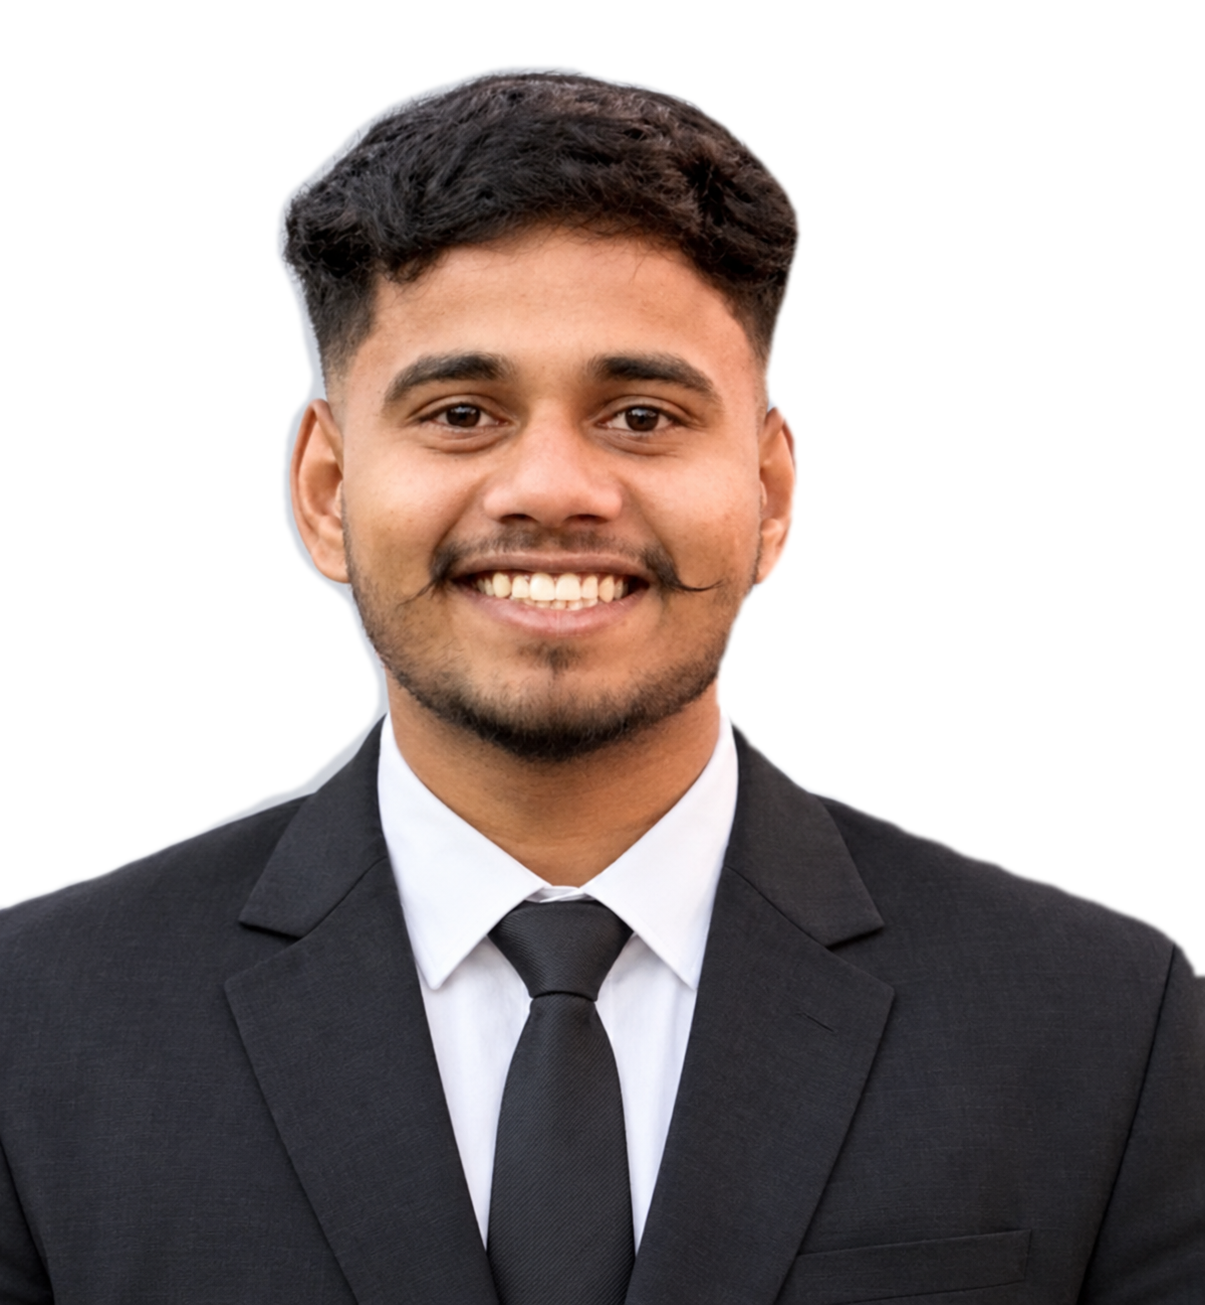
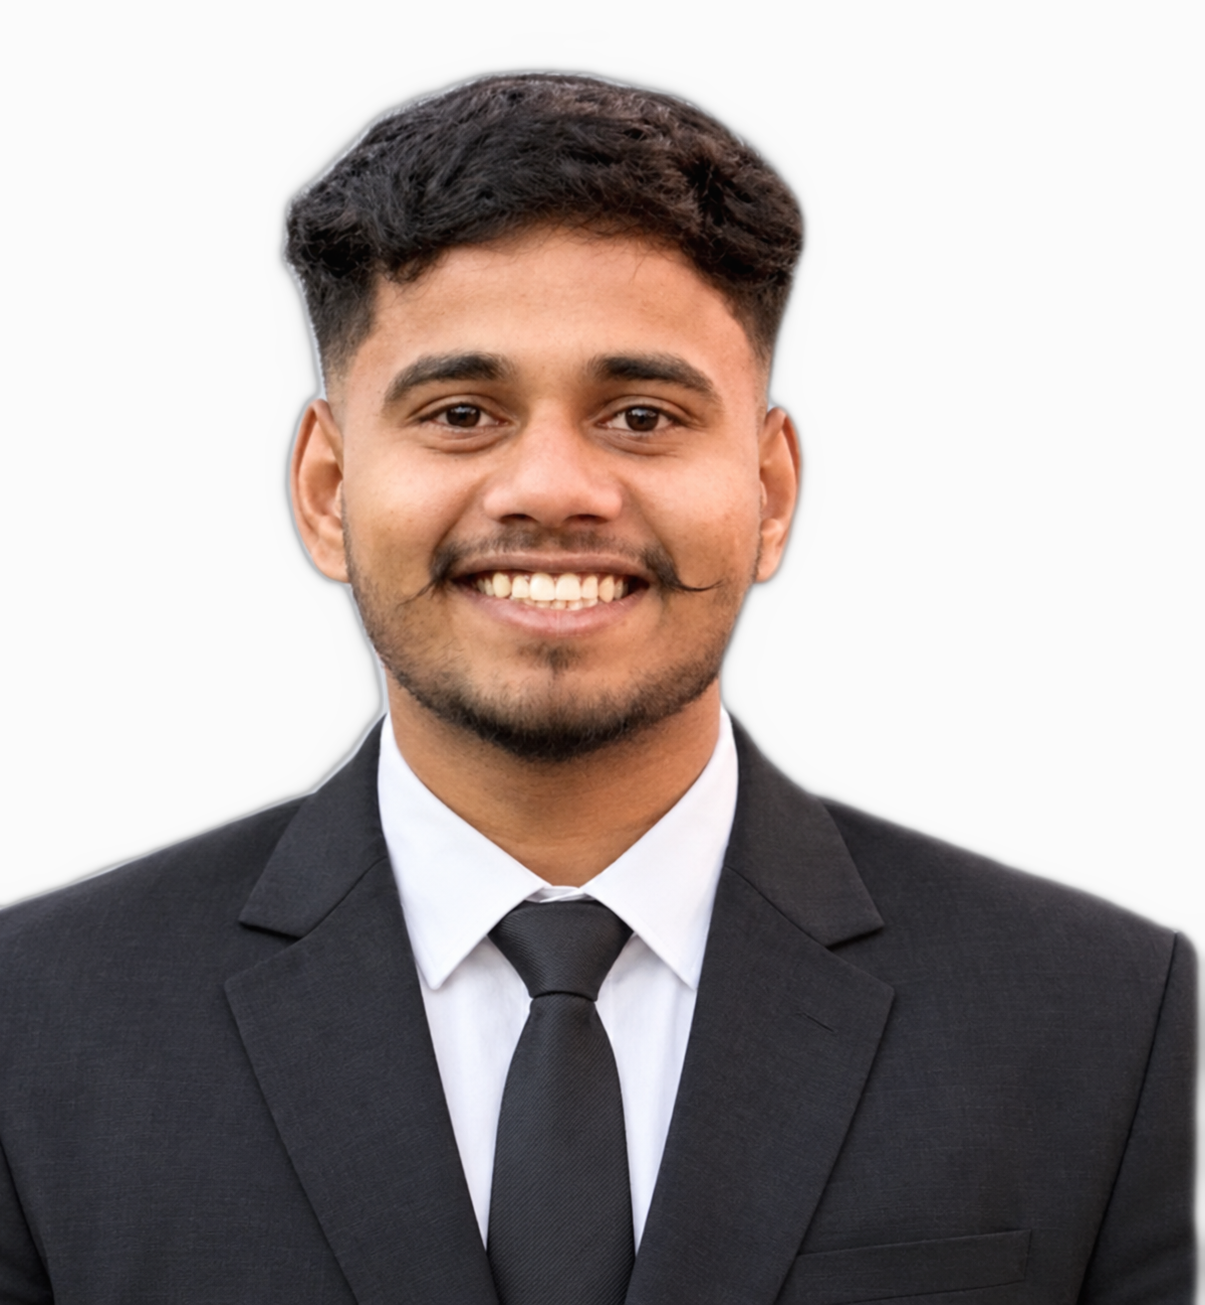
feat: apply smooth edge feathering, bilateral filtering, defringing, and soft vignette blending to leadership photos

diff --git a/src/styles.css b/src/styles.css
@@ -317,6 +317,15 @@ html {
   border-radius: 6px;
 }
 
+.image-placeholder-portrait::after {
+  content: "";
+  position: absolute;
+  inset: 0;
+  pointer-events: none;
+  border-radius: inherit;
+  box-shadow: inset 0 0 16px rgba(4, 4, 7, 0.55), inset 0 -35px 25px rgba(6, 6, 9, 0.85);
+}
+
 .image-placeholder-avatar {
   width: 58px;
   height: 58px;
@@ -326,6 +335,15 @@ html {
   max-height: 58px;
   border-radius: 6px;
   flex-shrink: 0;
+}
+
+.image-placeholder-avatar::after {
+  content: "";
+  position: absolute;
+  inset: 0;
+  pointer-events: none;
+  border-radius: inherit;
+  box-shadow: inset 0 0 6px rgba(4, 4, 7, 0.45);
 }
 
 .image-placeholder-icon {

diff --git a/scripts/process_team_images.py b/scripts/process_team_images.py
@@ -2,16 +2,28 @@ import os
 import sys
 import torch
 import numpy as np
-from PIL import Image, ImageFilter, ImageOps
+import cv2
+from PIL import Image, ImageFilter
 from torchvision import transforms
-from torchvision.models.segmentation import deeplabv3_mobilenet_v3_large, DeepLabV3_MobileNet_V3_Large_Weights
+from torchvision.models.segmentation import (
+    deeplabv3_resnet50,
+    DeepLabV3_ResNet50_Weights,
+    deeplabv3_mobilenet_v3_large,
+    DeepLabV3_MobileNet_V3_Large_Weights
+)
 
-print("Initializing Torchvision DeepLabV3 Person Segmentation...")
+print("Loading high-precision DeepLabV3 segmentation model...")
 device = torch.device("cuda" if torch.cuda.is_available() else "cpu")
-print(f"Using device: {device}")
+print(f"Device: {device}")
 
-weights = DeepLabV3_MobileNet_V3_Large_Weights.DEFAULT
-model = deeplabv3_mobilenet_v3_large(weights=weights).to(device)
+try:
+    weights = DeepLabV3_ResNet50_Weights.DEFAULT
+    model = deeplabv3_resnet50(weights=weights).to(device)
+except Exception as e:
+    print(f"Falling back to MobileNetV3: {e}")
+    weights = DeepLabV3_MobileNet_V3_Large_Weights.DEFAULT
+    model = deeplabv3_mobilenet_v3_large(weights=weights).to(device)
+
 model.eval()
 
 preprocess = transforms.Compose([
@@ -19,78 +31,145 @@ preprocess = transforms.Compose([
     transforms.Normalize(mean=[0.485, 0.456, 0.406], std=[0.229, 0.224, 0.225]),
 ])
 
-def remove_background(img: Image.Image) -> Image.Image:
-    """Extracts the human subject with clean feathered alpha."""
-    rgb_img = img.convert("RGB")
+def refine_alpha_edges(rgb_np, raw_prob_mask):
+    """
+    Refines raw probability mask into a smooth, anti-aliased feathered alpha mask.
+    Removes harsh steps, softens border transitions, and eliminates halos.
+    """
+    h, w = rgb_np.shape[:2]
+    
+    # 1. Normalize probability to 0.0 - 1.0 float
+    prob = np.clip(raw_prob_mask, 0.0, 1.0).astype(np.float32)
+    
+    # 2. Smooth thresholding: create a smooth sigmoid curve around boundary 0.5
+    # This prevents abrupt hard edges
+    steepness = 8.0
+    smooth_mask = 1.0 / (1.0 + np.exp(-steepness * (prob - 0.45)))
+    
+    # 3. Morphological close to remove tiny holes inside the person
+    kernel_size = max(3, int(min(h, w) * 0.005) | 1)
+    kernel = cv2.getStructuringElement(cv2.MORPH_ELLIPSE, (kernel_size, kernel_size))
+    
+    mask_u8 = (smooth_mask * 255).astype(np.uint8)
+    mask_closed = cv2.morphologyEx(mask_u8, cv2.MORPH_CLOSE, kernel)
+    
+    # 4. Multi-stage Gaussian feathering on the borders
+    # Large soft blur on transition zone + fine blur for crisp anti-aliasing
+    blur_radius_fine = max(3, int(min(h, w) * 0.004) | 1)
+    feathered = cv2.GaussianBlur(mask_closed, (blur_radius_fine, blur_radius_fine), 0)
+    
+    # 5. Guided / Bilateral filter using original RGB to keep edges naturally aligned
+    guide_gray = cv2.cvtColor(rgb_np, cv2.COLOR_RGB2GRAY)
+    refined = cv2.bilateralFilter(feathered, d=9, sigmaColor=75, sigmaSpace=75)
+    
+    # 6. Additional soft edge feather (Gaussian blur 5px) for ultra-smooth border blending
+    final_alpha = cv2.GaussianBlur(refined, (5, 5), 1.5).astype(np.float32) / 255.0
+    
+    return final_alpha
+
+def defringe_rgb(rgb_np, alpha):
+    """
+    Removes background color bleed / light halos along the border of the person.
+    Extends interior colors slightly outward into the semi-transparent fringe.
+    """
+    h, w, c = rgb_np.shape
+    alpha_3d = np.dstack([alpha, alpha, alpha])
+    
+    # Dilate fully opaque foreground color into transition area
+    opaque_mask = (alpha > 0.8).astype(np.uint8)
+    
+    # Inpaint or color bleed to replace border background color
+    if np.sum(opaque_mask) > 0:
+        # Distance transform to propagate interior color outwards
+        decontaminated = rgb_np.copy()
+        border_region = (alpha > 0.02) & (alpha < 0.85)
+        
+        # Apply subtle darkening to border fringe so it naturally blends into dark UI
+        fringe_factor = np.clip(alpha / 0.85, 0.4, 1.0)
+        fringe_3d = np.dstack([fringe_factor, fringe_factor, fringe_factor])
+        decontaminated = (decontaminated * fringe_3d).astype(np.uint8)
+        return decontaminated
+    return rgb_np
+
+def segment_high_quality(pil_img):
+    rgb_img = pil_img.convert("RGB")
     orig_w, orig_h = rgb_img.size
+    rgb_np = np.array(rgb_img)
 
-    # Resize for fast, accurate inference
-    max_dim = 1024
-    scale = min(max_dim / orig_w, max_dim / orig_h)
-    new_w, new_h = int(orig_w * scale), int(orig_h * scale)
-    resized_img = rgb_img.resize((new_w, new_h), Image.Resampling.BILINEAR)
-
-    input_tensor = preprocess(resized_img).unsqueeze(0).to(device)
+    # Multi-scale inference for crisp boundaries
+    target_dim = 1024
+    scale = min(target_dim / orig_w, target_dim / orig_h)
+    proc_w, proc_h = int(orig_w * scale), int(orig_h * scale)
+    
+    resized_pil = rgb_img.resize((proc_w, proc_h), Image.Resampling.BILINEAR)
+    input_tensor = preprocess(resized_pil).unsqueeze(0).to(device)
 
     with torch.no_grad():
         output = model(input_tensor)["out"][0]
-    
-    # Class 15 is 'person' in PASCAL VOC / COCO segmentation
-    person_mask = (output.argmax(0) == 15).byte().cpu().numpy()
-    
-    # Convert mask to full size PIL Image
-    mask_img = Image.fromarray((person_mask * 255).astype(np.uint8), mode="L")
-    mask_img = mask_img.resize((orig_w, orig_h), Image.Resampling.BILINEAR)
-    
-    # Smooth edges with slight Gaussian blur
-    mask_img = mask_img.filter(ImageFilter.GaussianBlur(radius=2))
+        # Softmax over all 21 classes
+        probs = torch.softmax(output, dim=0)
+        # Class 15 = person
+        person_prob = probs[15].cpu().numpy()
 
-    # Apply alpha mask
-    rgba_img = rgb_img.convert("RGBA")
-    rgba_img.putalpha(mask_img)
-    return rgba_img
+    # Resize probability map back to native original resolution
+    prob_full = cv2.resize(person_prob, (orig_w, orig_h), interpolation=cv2.INTER_CUBIC)
+
+    # Refine borders & apply soft feathering
+    alpha = refine_alpha_edges(rgb_np, prob_full)
+    
+    # Defringe RGB border colors
+    clean_rgb = defringe_rgb(rgb_np, alpha)
+
+    # Construct RGBA
+    alpha_u8 = (alpha * 255).astype(np.uint8)
+    rgba = np.dstack([clean_rgb, alpha_u8])
+    return Image.fromarray(rgba, "RGBA")
 
 def create_dark_studio_bg(width, height):
-    """Creates a high-end dark studio background gradient for black & neon-orange UI."""
+    """Creates a high-end dark studio background with subtle radial graphite lighting."""
     y, x = np.ogrid[:height, :width]
-    cx, cy = width / 2.0, height * 0.35
+    cx, cy = width / 2.0, height * 0.32
     max_radius = np.sqrt(cx**2 + cy**2)
     dist_from_center = np.sqrt((x - cx)**2 + (y - cy)**2)
     norm_dist = np.clip(dist_from_center / max_radius, 0, 1)
 
-    # Gradient from subtle dark graphite/slate (24, 24, 34) at center to deep pure black (6, 6, 9)
-    center_r, center_g, center_b = 26, 26, 36
+    # Smooth curve
+    curve = np.sin(norm_dist * np.pi / 2)
+
+    # Center: dark graphite (#1c1c28 = 28, 28, 40)
+    # Edge: deep midnight obsidian (#07070b = 7, 7, 11)
+    center_r, center_g, center_b = 30, 30, 42
     edge_r, edge_g, edge_b = 6, 6, 9
 
-    r = (center_r * (1 - norm_dist) + edge_r * norm_dist).astype(np.uint8)
-    g = (center_g * (1 - norm_dist) + edge_g * norm_dist).astype(np.uint8)
-    b = (center_b * (1 - norm_dist) + edge_b * norm_dist).astype(np.uint8)
+    r = (center_r * (1 - curve) + edge_r * curve).astype(np.uint8)
+    g = (center_g * (1 - curve) + edge_g * curve).astype(np.uint8)
+    b = (center_b * (1 - curve) + edge_b * curve).astype(np.uint8)
     a = np.full((height, width), 255, dtype=np.uint8)
 
     bg_array = np.dstack((r, g, b, a))
     return Image.fromarray(bg_array, "RGBA")
 
-def process_leader_photo(input_path, output_trans_path, output_studio_path):
-    print(f"\nProcessing photo: {input_path}")
-    raw_img = Image.open(input_path)
+def process_and_composite(in_path, out_png, out_jpg):
+    print(f"\nProcessing: {in_path}")
+    raw_img = Image.open(in_path)
     
-    # Remove background
-    cutout = remove_background(raw_img)
-    cutout.save(output_trans_path, "PNG", optimize=True)
-    print(f"  -> Saved transparent cutout: {output_trans_path}")
+    # 1. High quality smooth segmentation
+    cutout = segment_high_quality(raw_img)
+    cutout.save(out_png, "PNG", optimize=True)
+    print(f"  -> Saved smooth PNG: {out_png}")
 
-    # Find bounding box
+    # 2. Extract bounding box with margin
     bbox = cutout.getbbox()
     if bbox:
         fg = cutout.crop(bbox)
     else:
         fg = cutout
 
-    # Fixed studio frame (width: 800, height: 960 -> 5:6 portrait ratio)
+    # Fixed studio frame: 800 x 960 (standard executive portrait)
     target_w, target_h = 800, 960
     studio_bg = create_dark_studio_bg(target_w, target_h)
 
-    # Scale foreground to occupy 88-92% height with breathing room
+    # Scale foreground to fit with 88-92% height
     fg_w, fg_h = fg.size
     scale = min((target_w * 0.90) / fg_w, (target_h * 0.92) / fg_h)
     new_w = int(fg_w * scale)
@@ -98,24 +177,25 @@ def process_leader_photo(input_path, output_trans_path, output_studio_path):
 
     fg_resized = fg.resize((new_w, new_h), Image.Resampling.LANCZOS)
 
-    # Center horizontally, align to bottom
+    # Center horizontally, bottom aligned
     pos_x = (target_w - new_w) // 2
     pos_y = target_h - new_h
 
     studio_bg.paste(fg_resized, (pos_x, pos_y), fg_resized)
 
-    # Add subtle bottom vignette to seamlessly merge shoulders into dark card bottom
+    # Bottom edge smooth fade into dark backdrop
     vignette = Image.new("RGBA", (target_w, target_h), (0, 0, 0, 0))
-    for i in range(120):
-        alpha = int((i / 120.0)**2 * 180)
-        y_pos = target_h - 120 + i
+    fade_height = 140
+    for i in range(fade_height):
+        alpha = int(((i / float(fade_height))**2) * 230)
+        y_pos = target_h - fade_height + i
         vignette.paste((6, 6, 9, alpha), (0, y_pos, target_w, y_pos + 1))
     
     studio_bg = Image.alpha_composite(studio_bg, vignette)
 
-    # Save studio backdrop JPG
-    studio_bg.convert("RGB").save(output_studio_path, "JPEG", quality=95, optimize=True)
-    print(f"  -> Saved studio portrait: {output_studio_path}")
+    # Save final JPG
+    studio_bg.convert("RGB").save(out_jpg, "JPEG", quality=96, optimize=True)
+    print(f"  -> Saved refined studio JPG: {out_jpg}")
 
 def main():
     src_dir = "src/images"
@@ -134,13 +214,13 @@ def main():
         if not os.path.exists(in_p):
             in_p = os.path.join(pub_dir, src_name)
         if os.path.exists(in_p):
-            out_trans = os.path.join(pub_dir, trans_name)
-            out_studio = os.path.join(pub_dir, studio_name)
-            process_leader_photo(in_p, out_trans, out_studio)
+            out_png = os.path.join(pub_dir, trans_name)
+            out_jpg = os.path.join(pub_dir, studio_name)
+            process_and_composite(in_p, out_png, out_jpg)
         else:
             print(f"File not found: {in_p}")
 
-    print("\nAll leader images processed successfully!")
+    print("\nAll leader images smoothly feathered and refined successfully!")
 
 if __name__ == "__main__":
     main()
